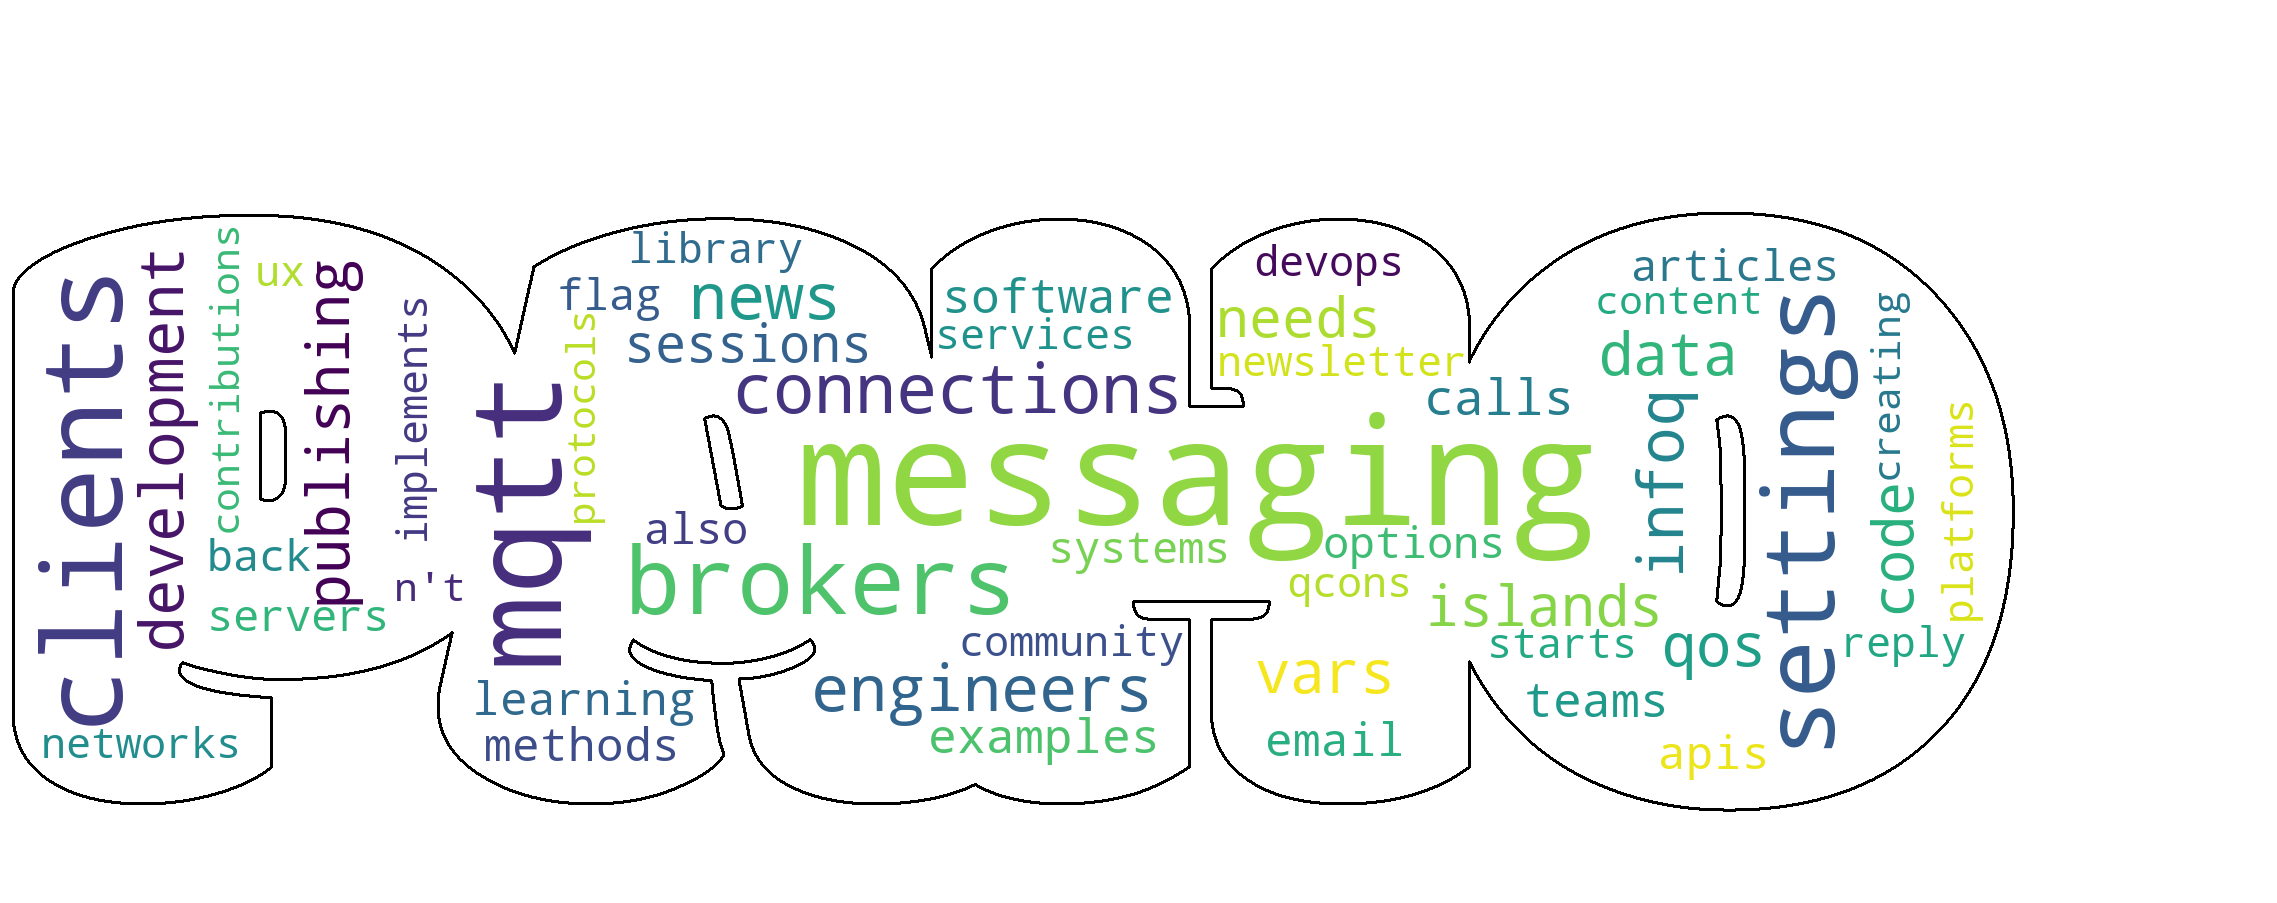
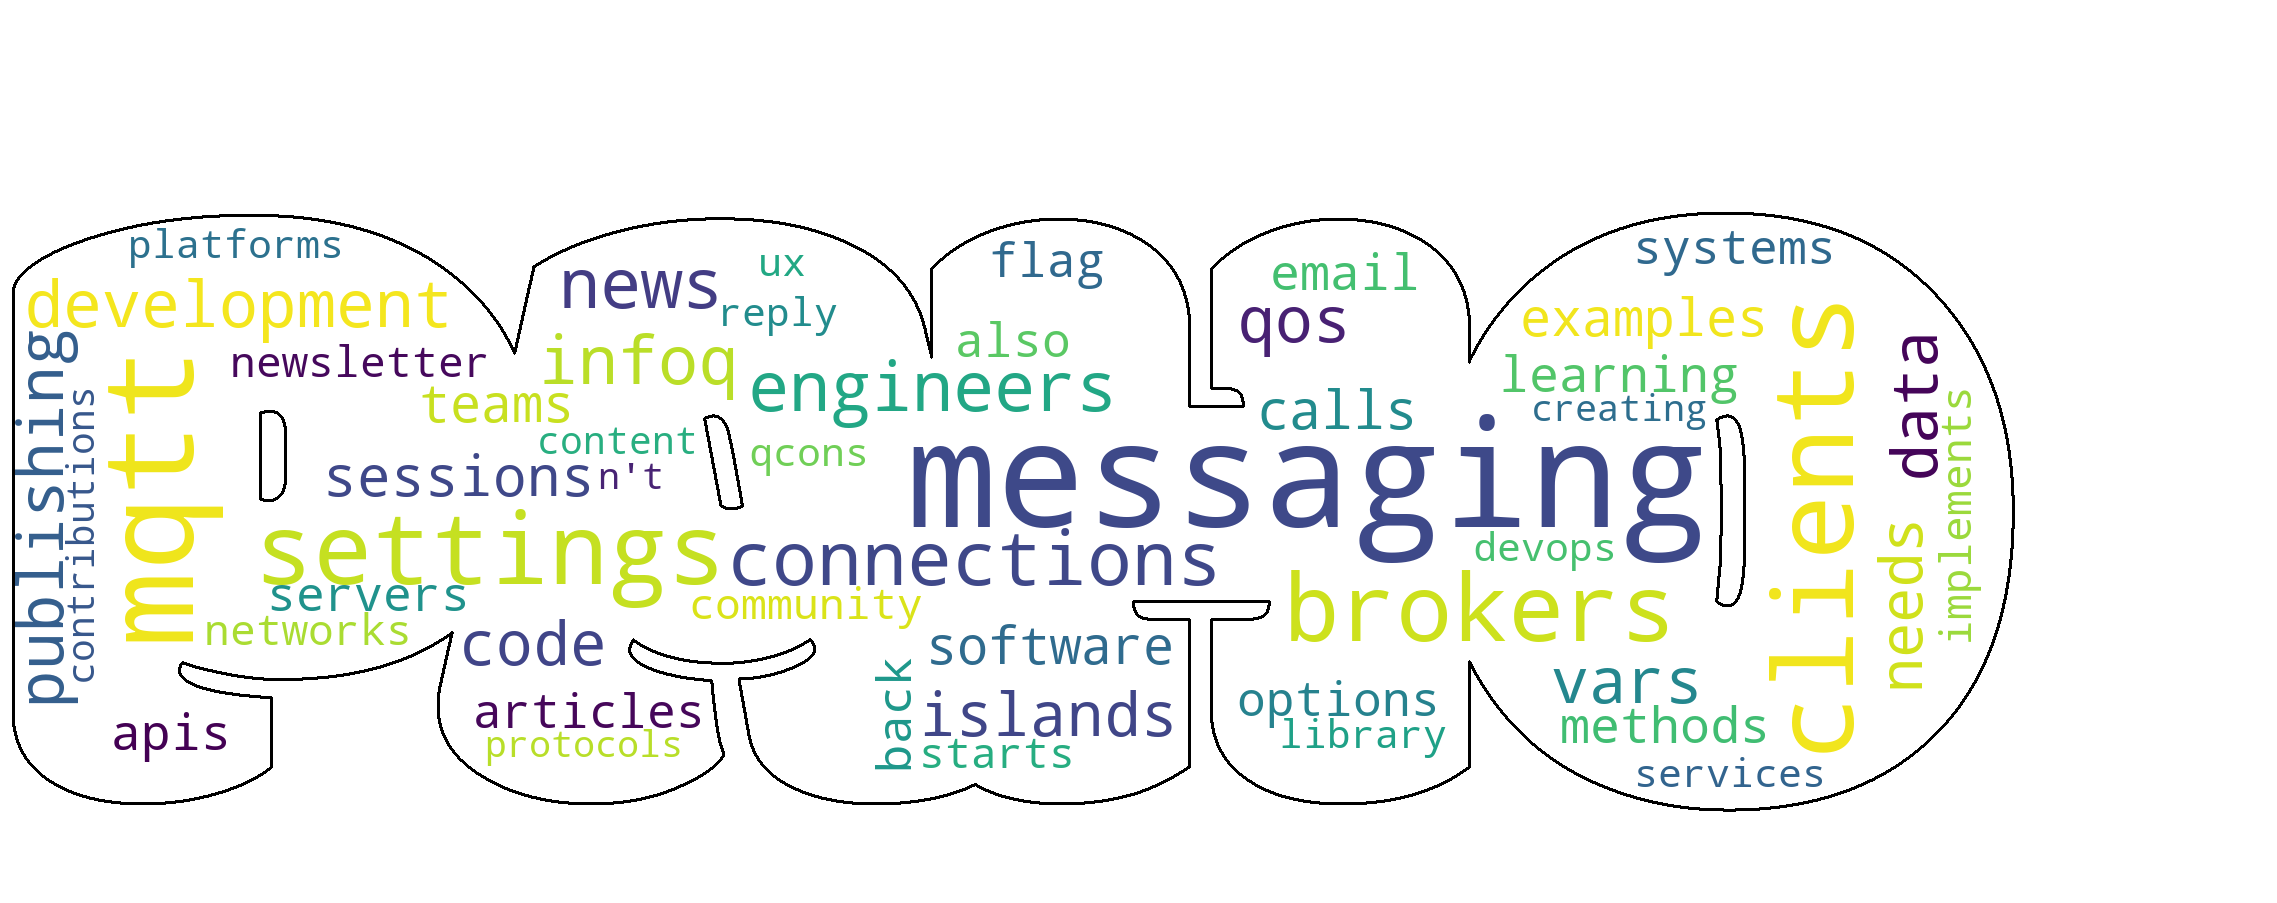
udpate code to remove redundant in project name

Changed region(s): [[0.0, 0.2481, 0.8731, 0.8682]]

diff --git a/helpers/ProjectHelper.py b/helpers/ProjectHelper.py
@@ -10,7 +10,7 @@ class ProjectHelper:
         if len(nameSplitted) > 2:
             # https://www.eclipse.org/paho/
             lastName = nameSplitted.pop()
-            while lastName is '':
+            while lastName == '':
                 lastName = nameSplitted.pop()
             result = lastName.lower()
         else:
@@ -18,6 +18,12 @@ class ProjectHelper:
 
         # remove the 'iot'
         result = result.replace('iot', '').replace('.', ' ').strip()
+
+        # remove the 'technology'
+        result = result.replace('technology', '').replace('.', ' ').strip()
+
+        # remove the 'tools'
+        result = result.replace('tools', '').replace('.', ' ').strip()
 
         # handle special case
         if('agile' in result):

diff --git a/nlp/ResultGenerator.py b/nlp/ResultGenerator.py
@@ -49,7 +49,7 @@ class ResultGenerator:
 
         spaceBetweenChar = -80
 
-        specialChars = ['a', 'v']
+        specialChars = ['a', 'v', 'w']
         reducedSpaceChars = ['i']
 
         offset = -draw.textsize(
@@ -76,8 +76,5 @@ class ResultGenerator:
                 spacing=1,
                 align="left",
                 fill=(0, 0, 0))
-
-            if char.lower() in reducedSpaceChars:
-                offset = offset + spaceBetweenChar*3
 
         image.save('./data/nlp/result/' + projectName.lower() + '-mask.png')

diff --git a/auto_runner.py b/auto_runner.py
@@ -64,9 +64,9 @@ def nlp():
         json.dump(siteDataList, dataFile, default=Site.encode_Site, indent=4)
 
 
-# crawl()
-# reactor.run()
+crawl()
+reactor.run()
 # nlp()
 # create_link()
 # start_analyze()
-start_convert()
+# start_convert()
